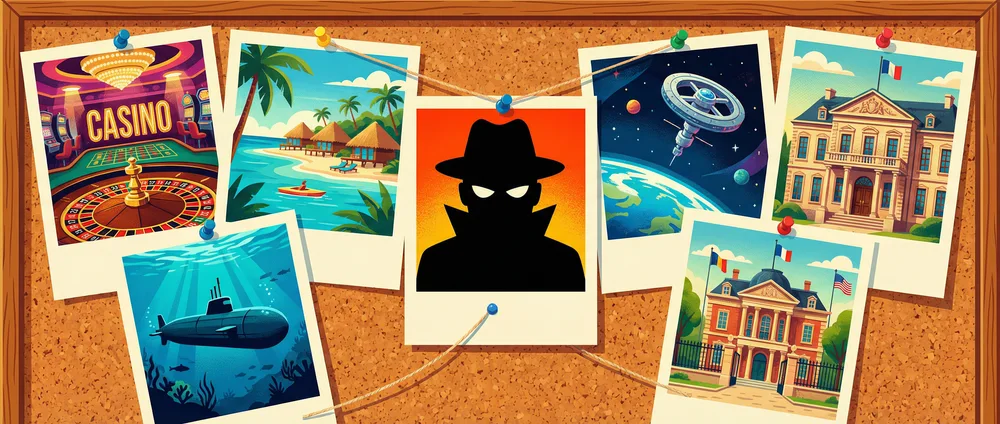
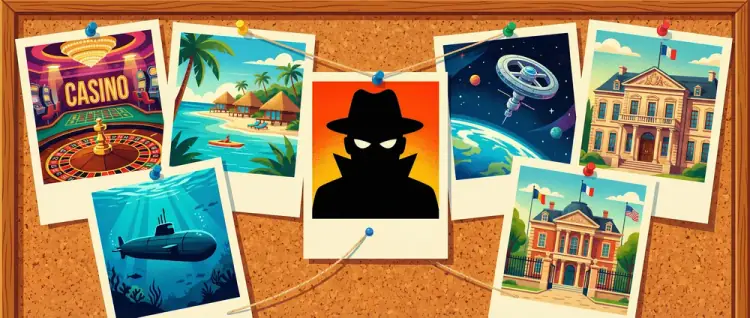
perf: raise browserslist targets, add AVIF support, and compress cover images
- Bump browserslist to Chrome/Edge 109+, Firefox 115+, Safari 16.4+
  to drop unnecessary polyfills (~14 KiB savings flagged by PageSpeed)
- Enable AVIF format and tune image sizes/cache in next.config.js
- Compress undercover cover: 140 KiB → 50 KiB (-64%)
- Compress spyfall cover: 103 KiB → 41 KiB (-60%)

Made-with: Cursor

diff --git a/next.config.js b/next.config.js
@@ -5,6 +5,12 @@ const nextConfig = {
   turbopack: {
     root: __dirname,
   },
+  images: {
+    formats: ['image/avif', 'image/webp'],
+    deviceSizes: [640, 750, 828, 1080, 1200],
+    imageSizes: [16, 32, 48, 64, 96, 128, 256],
+    minimumCacheTTL: 60 * 60 * 24 * 30,
+  },
   async headers() {
     return [
       {
